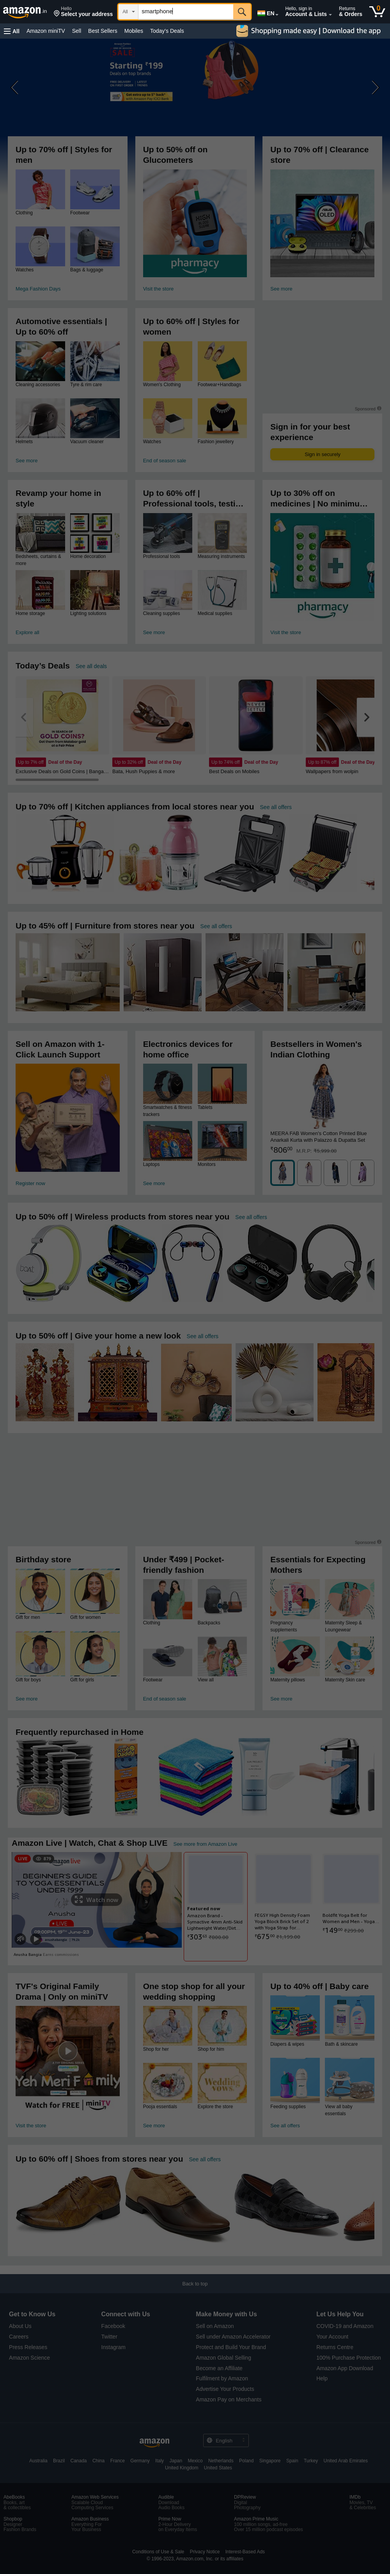
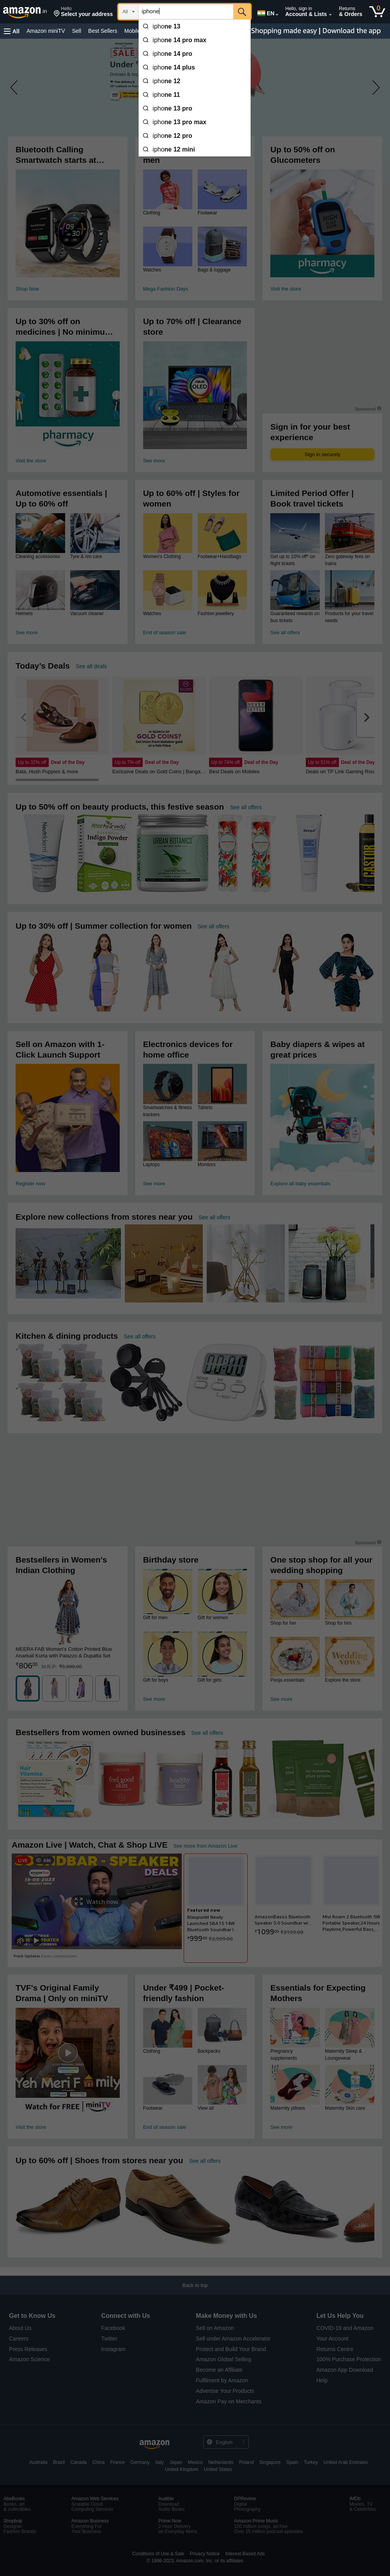
succesfully created appi

Changed region(s): [[0.0, 0.0, 1.0, 0.5625], [0.031, 0.5938, 0.961, 0.8438], [0.682, 0.75, 0.961, 0.8438]]

diff --git a/express.js b/express.js
@@ -3,9 +3,13 @@ import puppeteer from "puppeteer";
 
 var app=Express();
 const port =8000;
+app.use(Express.json());
 
-app.get('/', async (req, res)=>{
-    const p=await start();
+
+app.post('/', async (req, res)=>{
+    const data=await req.body;
+    console.log(data);
+    const p=await start(data.search);
     res.json(p);
 }    )
 app.listen(port, ()=>{
@@ -17,12 +21,12 @@ app.listen(port, ()=>{
 
 
 
-async function start() {
+async function start(search) {
   const browser = await puppeteer.launch();
   const page = await browser.newPage();
   await page.goto("https://www.amazon.in");
 
-  await page.type("#twotabsearchtextbox", "smartphone");
+  await page.type("#twotabsearchtextbox", `${search}`);
   await page.screenshot({ path: "assets/1.png", fullPage: true });
   await page.click(".nav-search-submit");
   await page.waitForNavigation();
